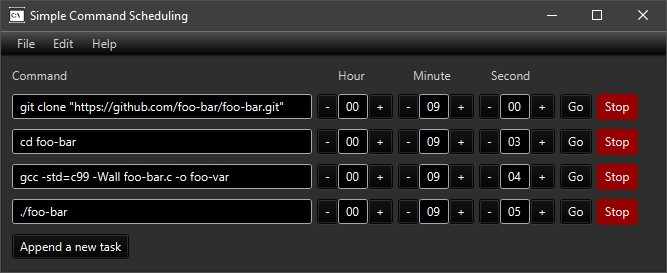
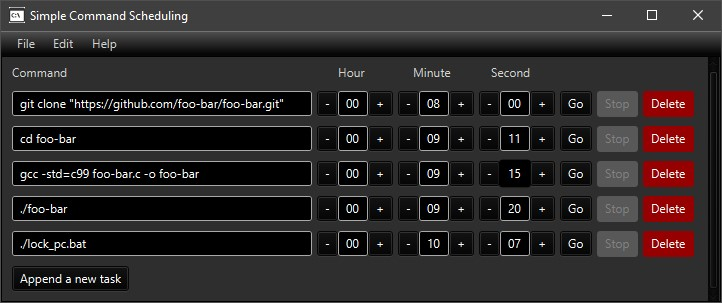
go and stop are toggled correctly, added delete button for task, added alert display for invalid commands, updated screenshot.jpg

diff --git a/Resources/Styles/DarkMode.css b/Resources/Styles/DarkMode.css
@@ -40,12 +40,22 @@
 
 .StopButton {
     -fx-base: -fx-accent ;
-    -fx-background-color: #960000;
+    -fx-background-color: #969696;
 }
 
 .StopButton:hover {
     -fx-text-fill: #070707;
 }
+
+.DeleteButton {
+    -fx-base: -fx-accent ;
+    -fx-background-color: #960000;
+}
+
+.DeleteButton:hover {
+    -fx-text-fill: #070707;
+}
+
 
 
 .text-area {

diff --git a/src/View/StartButton.java b/src/View/StartButton.java
@@ -3,7 +3,11 @@ package View;
 
 import Model.TimeClass;
 import javafx.application.Platform;
+import javafx.scene.Scene;
+import javafx.scene.control.Alert;
 import javafx.scene.control.Button;
+import javafx.scene.image.Image;
+import javafx.stage.Stage;
 
 import java.io.IOException;
 import java.util.Timer;
@@ -11,11 +15,12 @@ import java.util.TimerTask;
 
 public class StartButton extends Button {
 
-    private CommandWidget commandWidget;
-    private TimeWidget hourWidget;
-    private TimeWidget minuteWidget;
-    private TimeWidget secondWidget;
+    private final CommandWidget commandWidget;
+    private final TimeWidget hourWidget;
+    private final TimeWidget minuteWidget;
+    private final TimeWidget secondWidget;
     private Timer timer;
+    private StopButton stopButton;
 
     public StartButton(CommandWidget commandWidget, TimeWidget hourWidget, TimeWidget minuteWidget, TimeWidget secondWidget) {
         super("Go");
@@ -29,6 +34,8 @@ public class StartButton extends Button {
     private void setEventProperty() {
         this.setOnAction(actionEvent -> {
             createAndStartTimer();
+            this.setDisable(true);
+            stopButton.setDisable(false);
         });
     }
 
@@ -50,8 +57,8 @@ public class StartButton extends Button {
                         Runtime runtime = Runtime.getRuntime();
                         try {
                             runtime.exec(commandWidget.getText());
-                        } catch (IOException e) {
-                            e.printStackTrace();
+                        } catch (IOException | IllegalArgumentException e) {
+                            displayErrorAlert(e);
                         }
                         timer.cancel();
                     }
@@ -60,7 +67,24 @@ public class StartButton extends Button {
         }, delay, period);
     }
 
+    private void displayErrorAlert(Exception e) {
+        timer.cancel();
+        Alert alert = new Alert(Alert.AlertType.ERROR);
+        alert.setTitle("Error - " + e.getMessage());
+        alert.setHeaderText("Failed to execute given command.");
+        alert.setContentText(e.getLocalizedMessage());
+        Scene scene = alert.getDialogPane().getScene();
+        scene.getStylesheets().add("Styles/DarkMode.css");
+        Stage stage = (Stage) scene.getWindow();
+        stage.getIcons().add(new Image("icon.png"));
+        alert.showAndWait();
+    }
+
     public Timer getTimer() {
         return timer;
+    }
+
+    public void setStopButton(StopButton stopButton) {
+        this.stopButton = stopButton;
     }
 }

diff --git a/src/View/TaskWidget.java b/src/View/TaskWidget.java
@@ -14,7 +14,10 @@ public class TaskWidget extends HBox {
         TimeWidget minuteWidget = new TimeWidget(TimeFieldType.MINUTE);
         TimeWidget secondWidget = new TimeWidget(TimeFieldType.SECOND);
         StartButton startButton = new StartButton(commandWidget, hourWidget, minuteWidget, secondWidget);
-        StopButton stopButton = new StopButton(startButton);
-        this.getChildren().addAll(commandWidget, hourWidget, minuteWidget, secondWidget, startButton, stopButton);
+        StopButton stopButton = new StopButton();
+        startButton.setStopButton(stopButton);
+        stopButton.setStartButton(startButton);
+        DeleteButton deleteButton = new DeleteButton();
+        this.getChildren().addAll(commandWidget, hourWidget, minuteWidget, secondWidget, startButton, stopButton, deleteButton);
     }
 }

diff --git a/src/View/StopButton.java b/src/View/StopButton.java
@@ -6,16 +6,23 @@ public class StopButton extends Button {
 
     private StartButton startButton;
 
-    public StopButton(StartButton startButton) {
+    public StopButton() {
         super("Stop");
-        this.startButton = startButton;
+        this.setDisable(true);
+        this.prefWidth(70);
         this.getStyleClass().add("StopButton");
         setEventProperty();
+    }
+
+    public void setStartButton(StartButton startButton) {
+        this.startButton = startButton;
     }
 
     private void setEventProperty() {
         this.setOnAction(actionEvent -> {
             startButton.getTimer().cancel();
+            this.setDisable(true);
+            startButton.setDisable(false);
         });
     }
 }

diff --git a/src/View/DeleteButton.java b/src/View/DeleteButton.java
@@ -1,0 +1,20 @@
+package View;
+
+import javafx.scene.control.Button;
+import javafx.scene.layout.VBox;
+
+public class DeleteButton extends Button {
+
+    public DeleteButton() {
+        super("Delete");
+        this.getStyleClass().add("DeleteButton");
+        setEventProperty();
+    }
+
+    private void setEventProperty() {
+        this.setOnAction(actionEvent -> {
+            VBox main_VBox = (VBox) this.getScene().lookup("#main_VBox");
+            main_VBox.getChildren().remove(this.getParent());
+        });
+    }
+}

diff --git a/src/View/CommandWidget.java b/src/View/CommandWidget.java
@@ -1,7 +1,5 @@
 package View;
 
-
-import javafx.geometry.Insets;
 import javafx.scene.control.TextField;
 
 public class CommandWidget extends TextField {
